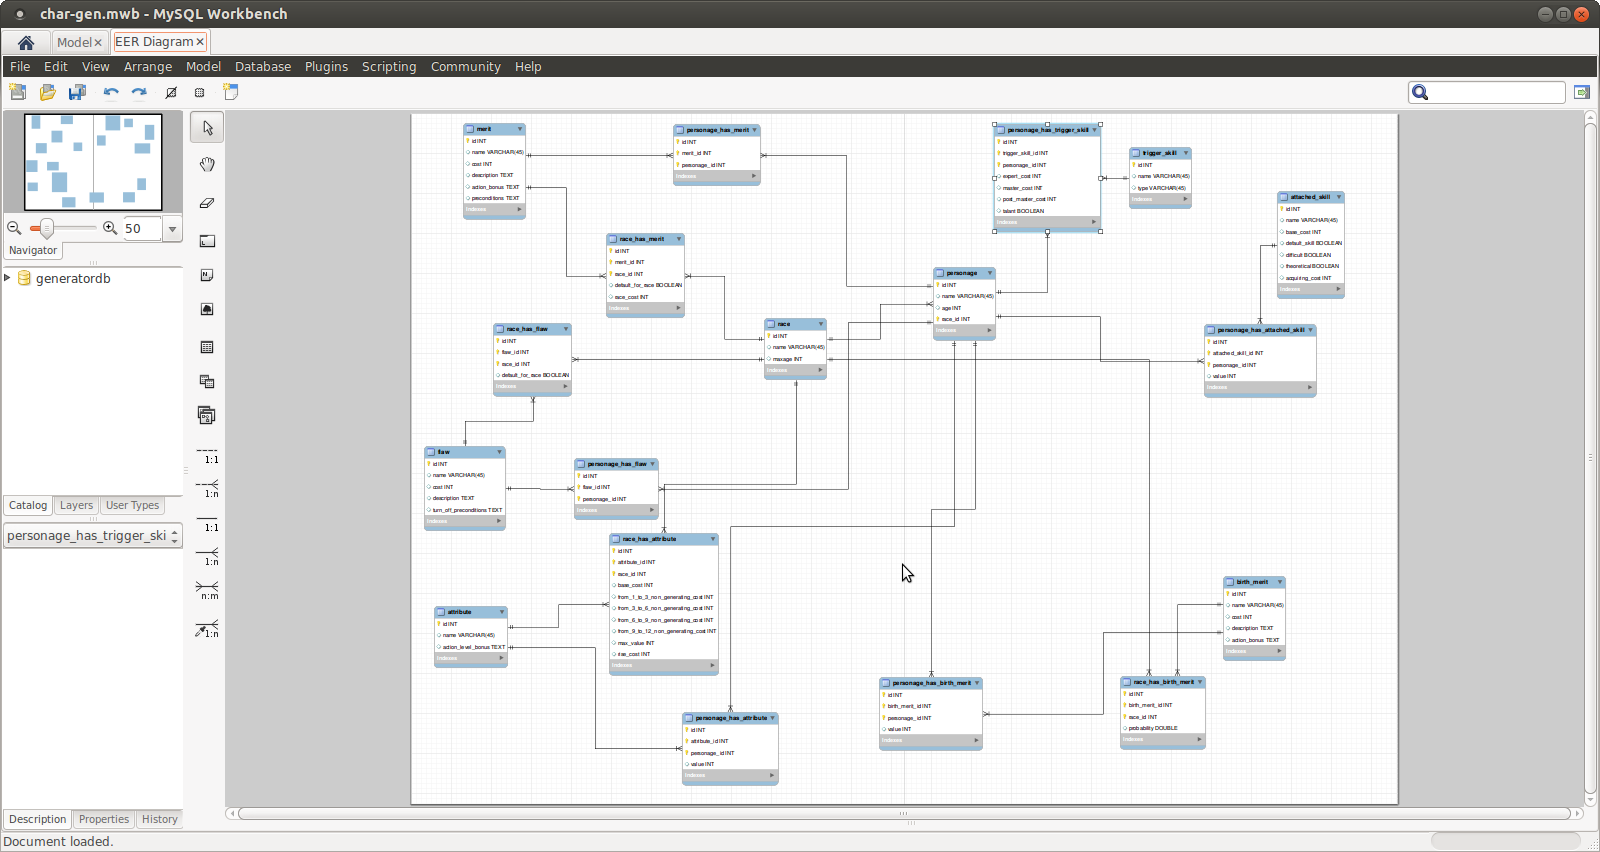
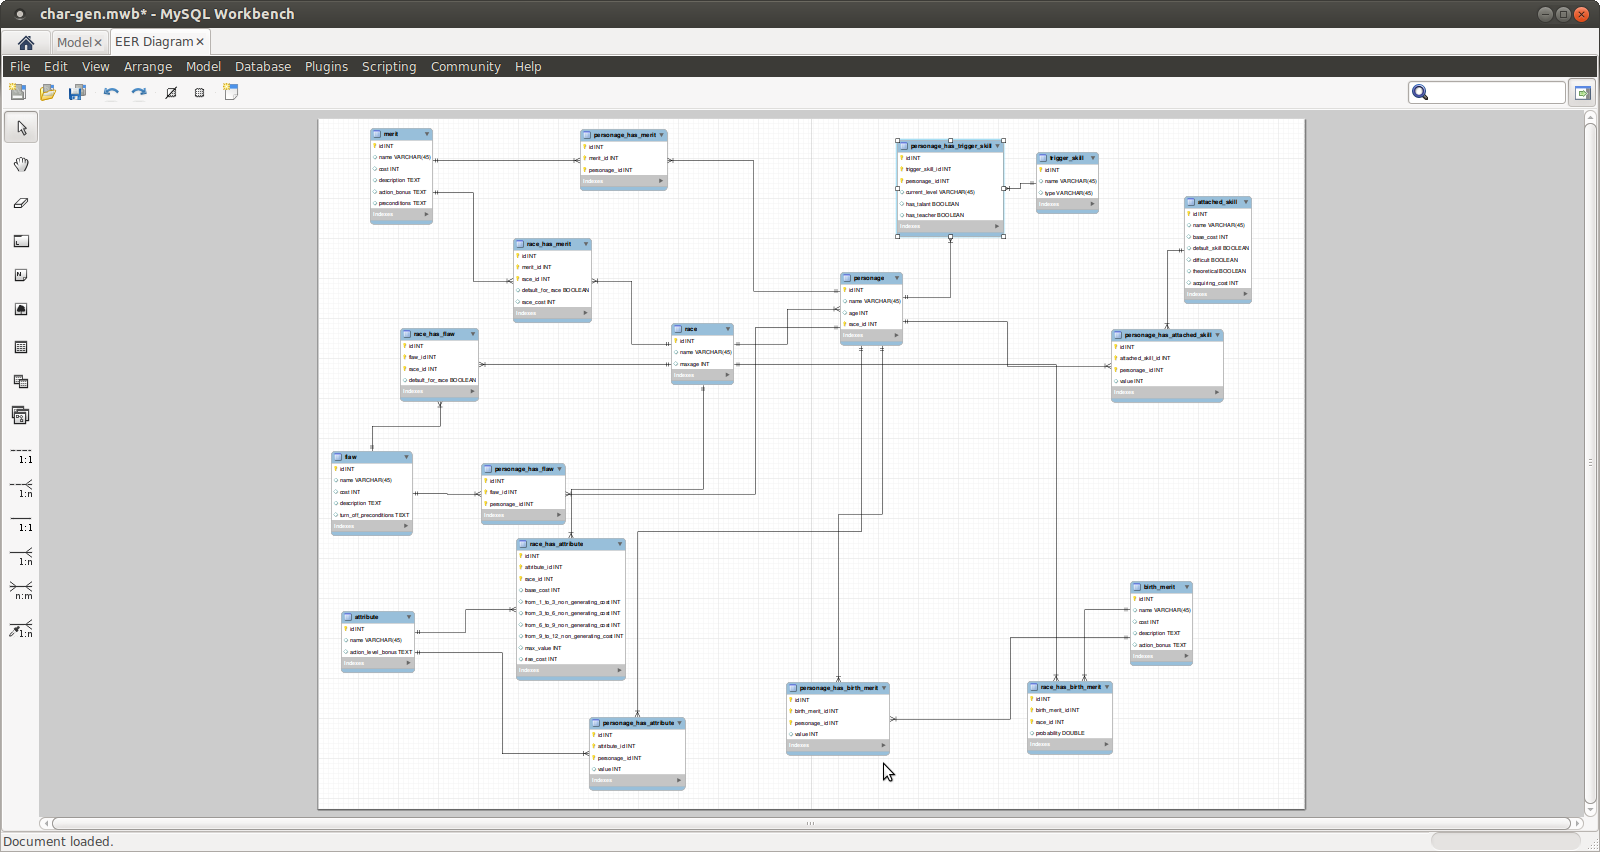
more changes in DB structure

diff --git a/src/main/java/entity/PersonageHasTriggerSkill.java b/src/main/java/entity/PersonageHasTriggerSkill.java
@@ -23,17 +23,11 @@ public class PersonageHasTriggerSkill {
     @JoinColumn(name = "personage_id")
     private Personage personageByTriggerSkill;
 
-    @Column(name = "expert_cost")
-    private int expertCost;
+    @Column(name = "has_talant")
+    private boolean hasTalant;
 
-    @Column(name = "master_cost")
-    private int masterCost;
-
-    @Column(name = "post_master_cost")
-    private int postMasterCost;
-
-    @Column(name = "talant")
-    private boolean talant;
+    @Column(name = "has_teacher")
+    private boolean hasTeacher;
 
     public int getId() {
         return id;
@@ -43,36 +37,20 @@ public class PersonageHasTriggerSkill {
         this.id = id;
     }
 
-    public int getExpertCost() {
-        return expertCost;
+    public boolean isHasTalant() {
+        return hasTalant;
     }
 
-    public void setExpertCost(int expertCost) {
-        this.expertCost = expertCost;
+    public void setHasTalant(boolean talant) {
+        this.hasTalant = talant;
     }
 
-    public int getMasterCost() {
-        return masterCost;
+    public boolean isHasTeacher() {
+        return hasTeacher;
     }
 
-    public void setMasterCost(int masterCost) {
-        this.masterCost = masterCost;
-    }
-
-    public int getPostMasterCost() {
-        return postMasterCost;
-    }
-
-    public void setPostMasterCost(int postMasterCost) {
-        this.postMasterCost = postMasterCost;
-    }
-
-    public boolean isTalant() {
-        return talant;
-    }
-
-    public void setTalant(boolean talant) {
-        this.talant = talant;
+    public void setHasTeacher(boolean hasTeacher) {
+        this.hasTeacher = hasTeacher;
     }
 
     public TriggerSkill getTriggerSkillByPersonage() {

diff --git a/src/main/java/enums/SkillLevel.java b/src/main/java/enums/SkillLevel.java
@@ -8,8 +8,7 @@ package enums;
 public enum SkillLevel {
     EXPERT (10),
     MASTER (15),
-    MAGISTER (20),
-    GRAND_MAGISTER (30);
+    POST_MAGISTER (20);
 
     private int baseCost;
 
